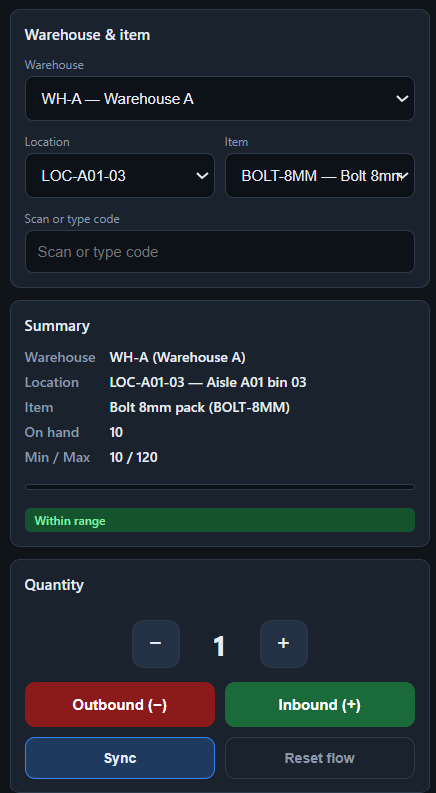
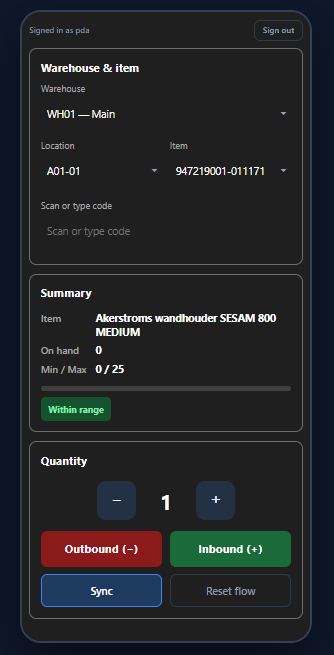
information about requirements

diff --git a/docs/stock-control-admin-mock.html b/docs/stock-control-admin-mock.html
@@ -176,7 +176,6 @@
   <div id="screen-login" role="dialog" aria-label="Sign in">
     <div class="login-card">
       <h1 class="login-heading">Stock Control — Admin</h1>
-      <p class="login-subtitle">Sign in with your Admin account (role 1).</p>
       <form class="login-form" id="login-form">
         <label class="login-label" for="login-user">Username</label>
         <input class="login-field" id="login-user" type="text" autocomplete="username" placeholder="Username" />

diff --git a/docs/stock-control-pda-mock.html b/docs/stock-control-pda-mock.html
@@ -289,7 +289,6 @@
         <div id="screen-login">
           <div class="login-card">
             <h1 class="login-heading">Stock Control — PDA</h1>
-            <p class="login-subtitle">Sign in with your Admin PDA account (role 2).</p>
             <form id="login-form">
               <label class="login-label" for="pda-user">Username</label>
               <input class="login-field" id="pda-user" type="text" autocomplete="username" placeholder="Username" />

diff --git a/readme/README-operation-stock-pda.md b/readme/README-operation-stock-pda.md
@@ -43,7 +43,7 @@ Apply passwords: [`scripts/seed-user-passwords.sql`](../scripts/seed-user-passwo
 </thead>
 <tbody>
 <tr><td width="520" align="left" valign="top"><strong>Platform</strong></td><td align="left" valign="top">Android PDA</td></tr>
-<tr><td width="520" align="left" valign="top"><strong>Workflow</strong></td><td align="left" valign="top">Mock <a href="../docs/pda-move-stock.html"><code>pda-move-stock.html</code></a>: scan product → stock location dropdown → quantity Add/Subtract — same screen as before, fields reordered.</td></tr>
+<tr><td width="520" align="left" valign="top"><strong>Workflow</strong></td><td align="left" valign="top">One screen: scan product (or pick item) → location (dropdown or scan) → quantity <strong>Inbound (+)</strong> / <strong>Outbound (−)</strong>. Layout: <code>readme/images/pda-move-stock.png</code>, <code>MainPage.xaml</code>, <a href="../docs/stock-control-pda-mock.html"><code>stock-control-pda-mock.html</code></a>.</td></tr>
 <tr><td width="520" align="left" valign="top"><strong>Scanner</strong></td><td align="left" valign="top">Keyboard wedge (text + Enter)</td></tr>
 <tr><td width="520" align="left" valign="top"><strong>Connectivity</strong></td><td align="left" valign="top">Online (MVP)</td></tr>
 <tr><td width="520" align="left" valign="top"><strong>MAUI targets</strong></td><td align="left" valign="top"><strong>Android only</strong> — <code>Platforms/Android</code> only (<code>net10.0-android</code>, min API 21). iOS / Windows / Mac Catalyst folders are not in this repo.</td></tr>
@@ -86,8 +86,16 @@ Admin holds **master data** and **posted transactions**. It does **not** magical
 ## 🎨 4. Move stock — UI mock & MAUI behaviour
 
 <p align="center">
-  <img src="./images/pda-move-stock.png" alt="PDA — Move stock (mock screenshot)" width="420" />
+  <img src="./images/pda-move-stock.png" alt="PDA — Move stock" width="420" />
 </p>
+
+**Screen layout** (`readme/images/pda-move-stock.png` = reference for code + mock):
+
+1. **Warehouse** (dropdown)
+2. **Location** + **Item** (dropdowns, same row)
+3. **Scan or type code** (scanner focus; product or location code + Enter)
+4. **Summary** — item, on hand, min/max, status
+5. **Quantity** — stepper **− / +**, **Outbound (−)** / **Inbound (+)**; **Sync** | **Reset flow**
 
 <table width="100%" border="0" cellspacing="0" cellpadding="10" style="table-layout:fixed">
 <colgroup><col width="520" /><col /></colgroup>
@@ -95,10 +103,11 @@ Admin holds **master data** and **posted transactions**. It does **not** magical
 <tr><th width="520" align="left" valign="top">Area (mock)</th><th align="left" valign="top">Intended behaviour</th></tr>
 </thead>
 <tbody>
-<tr><td width="520" align="left" valign="top">⌨️ <strong>Scan product code</strong></td><td align="left" valign="top">First field. Keyboard wedge + <strong>Enter</strong> resolves <strong>product</strong> (SKU / barcode / article number — <strong>section 5</strong>). Shown under the scan field when recognized.</td></tr>
-<tr><td width="520" align="left" valign="top">📍 <strong>Stock location</strong></td><td align="left" valign="top"><strong>Dropdown</strong> (warehouse implied in label, e.g. <code>WH01 · A01-01</code>). Second field on the same card.</td></tr>
-<tr><td width="520" align="left" valign="top">📊 <strong>Summary</strong></td><td align="left" valign="top"><strong>Product</strong>, <strong>location</strong>, <strong>on hand</strong>, <strong>min/max</strong>, status pill — server lookups (<code>/api/pda/catalog/summary</code>).</td></tr>
-<tr><td width="520" align="left" valign="top">🔢 <strong>Quantity</strong></td><td align="left" valign="top">Stepper <strong>− / +</strong> then <strong>Add (+)</strong> / <strong>Subtract (−)</strong>. <strong>Sync</strong> | <strong>Reset flow</strong> unchanged.</td></tr>
+<tr><td width="520" align="left" valign="top">🏭 <strong>Warehouse</strong></td><td align="left" valign="top">Dropdown at top of the card (filters locations).</td></tr>
+<tr><td width="520" align="left" valign="top">📍 <strong>Location</strong> + 🏷️ <strong>Item</strong></td><td align="left" valign="top">Side-by-side dropdowns; can be set before or after scan.</td></tr>
+<tr><td width="520" align="left" valign="top">⌨️ <strong>Scan or type code</strong></td><td align="left" valign="top">Keyboard wedge + <strong>Enter</strong>: product code → selects <strong>Item</strong>; location code (≤ 12) → selects <strong>Location</strong> (<strong>section 5</strong>).</td></tr>
+<tr><td width="520" align="left" valign="top">📊 <strong>Summary</strong></td><td align="left" valign="top"><strong>Item</strong>, on hand, min/max, status — <code>/api/pda/catalog/summary</code>.</td></tr>
+<tr><td width="520" align="left" valign="top">🔢 <strong>Quantity</strong></td><td align="left" valign="top">Stepper <strong>− / +</strong>, then <strong>Inbound (+)</strong> / <strong>Outbound (−)</strong>. <strong>Sync</strong> | <strong>Reset flow</strong>.</td></tr>
 <tr><td width="520" align="left" valign="top">🔄 <strong>Sync</strong> | <strong>Reset flow</strong></td><td align="left" valign="top">Same row. <strong>Sync</strong> → <code>GET /api/stock/sync</code> (MVP: counts + connectivity); after success, <strong>reload catalog pickers</strong> from <code>/api/pda/catalog/...</code>. <strong>Reset</strong> clears selection + quantity (mock + MAUI).</td></tr>
 </tbody>
 </table>
@@ -117,19 +126,17 @@ Admin holds **master data** and **posted transactions**. It does **not** magical
 </tbody>
 </table>
 
-## 🔁 5. Scan-first flow
+## 🔁 5. Operator flow (one screen)
 
-1. **Scan location**
-   - Validate size (≤ 12) and existence/active status.
-2. **Scan item**
-   - Accept any barcode line stored on the item (`items.Barcodes`, newline-separated).
-3. **Enter quantity**
-   - Default = 1; numeric keypad; minimal validation.
-4. **Confirm action**
-   - Inbound (+) writes `stock_movements(IN)`; Outbound (−) writes `stock_movements(OUT)`.
-   - Update `stock_balances` (or receive updated balance from the API).
+Visual layout is fixed in `pda-move-stock.png` (warehouse → location/item → scan field). **Typical sequence:**
 
-> **Tip:** if the wrong location/item is selected, use **Reset flow** on **Move stock** before scanning again.
+1. **Scan product** — type/scan SKU or barcode in **Scan or type code** + **Enter** → updates **Item** picker and **Summary**.
+2. **Stock location** — pick **Location** (and **Warehouse** if needed), or scan location code in the same field.
+3. **Quantity** — stepper **− / +**, then **Inbound (+)** or **Outbound (−)**.
+
+Pickers and scan work together; order can vary as long as product + location are set before posting.
+
+> **Tip:** wrong selection → **Reset flow**, then scan again.
 
 ## ✅ 6. Rules & validations (MVP)
 